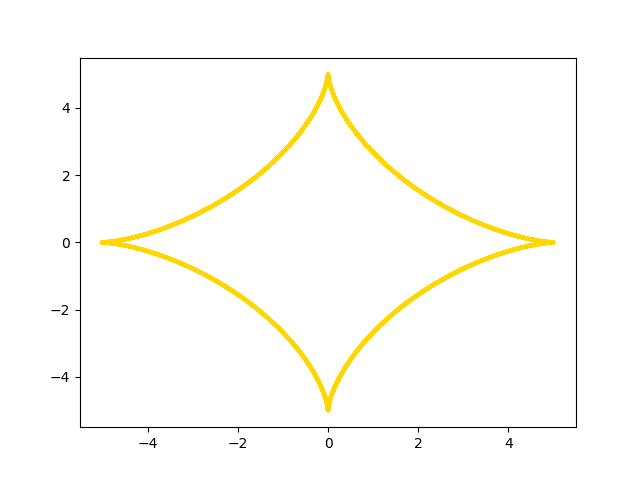
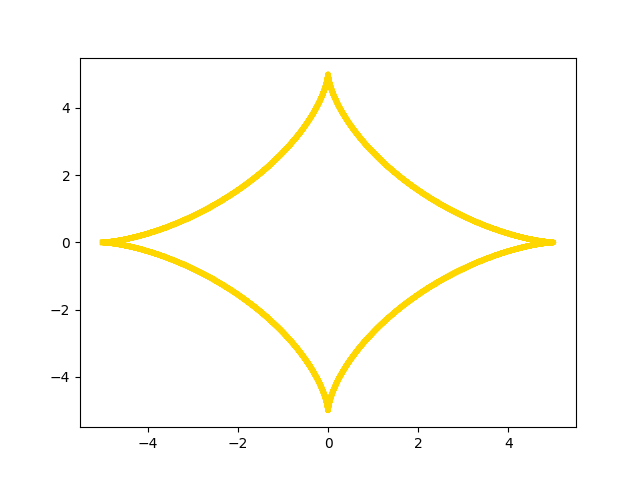
laba7

diff --git a/task3_heart.py b/task3_heart.py
@@ -2,7 +2,7 @@ from matplotlib.animation import FuncAnimation
 import matplotlib.pyplot as plt
 import numpy as np
 
-def bttrfl(i):
+def a(i):
     t = np.arange(0, i, 0.01)
     x = 16 * (np.sin(t)**3)
     y = 13*np.cos(t) - 5*np.cos(2*t) - 2*np.cos(3*t) - np.cos(4*t)
@@ -10,12 +10,12 @@ def bttrfl(i):
 
 
 def animate(i):
-    butterfly.set_data(bttrfl(i=i))
+    heart.set_data(a(i=i))
 
 
 
 fig, ax = plt.subplots()
-butterfly, = plt.plot([], [], '-', color='crimson', label='Butterfly')
+heart, = plt.plot([], [], '-', color='salmon', label='Butterfly')
 
 edge = 20
 plt.axis('equal')

diff --git a/task2.py b/task2.py
@@ -16,13 +16,13 @@ def animate(R):
 if __name__ == '__main__':
 
     fig, ax = plt.subplots()
-    ball, = plt.plot([], [], '-', color='lime', label='Ball')
+    ball, = plt.plot([], [], '-', color='lime')
 
     edge = 3
     plt.axis('equal')
     ax.set_xlim(-edge, edge)
     ax.set_ylim(-edge, edge)
     
-    ani = FuncAnimation(fig, animate, frames=np.arange(0, 3, 0.05), interval=30)
+    ani = FuncAnimation(fig, animate, frames=np.arange(0, 3, 0.05), interval=40)
 
-    ani.save('animation_task2.gif')
+    ani.save('circle_move.gif')

diff --git a/task1_cycloid.py b/task1_cycloid.py
@@ -1,14 +1,14 @@
 import numpy as np
 import matplotlib.pyplot as plt
 
-def cycloid(R):
-    z = np.arange(-2*np.pi, 2*np.pi, 0.1)   
+def cycloid(R = 10):
+    t = np.arange(-2*np.pi, 2*np.pi, 0.1)  # Параметр
 
-    x = R * (z - np.sin(z)**3)
-    y = R * (1 - np.cos(z)**3)
+    x = R * (t - np.sin(t)**3)
+    y = R * (1 - np.cos(t)**3)
 
-    plt.plot(x, y, color='black', ls='-', lw=7)
+    plt.plot(x, y, color = "aqua", ls='-', lw=4)
     plt.axis('equal')
     plt.savefig('fig_cycloid.png')
 
-cycloid = 10
+cycloid ()

diff --git a/task_1_astroid.py b/task_1_astroid.py
@@ -1,13 +1,13 @@
 import numpy as np
 import matplotlib.pyplot as plt
 
-def astroid(R):
+def astroid(R = 5):
     z = np.arange(-5*np.pi, 5*np.pi, 0.1)  
 
     x = R * (np.cos(z)**3)
     y = R * (np.sin(z)**3)
 
-    plt.plot(x, y, color='gold', ls='-', lw=3)
+    plt.plot(x, y, color='gold', ls='-', lw=4)
     plt.savefig('fig_astroid.png')
 
-astroid = 10
+astroid ()
